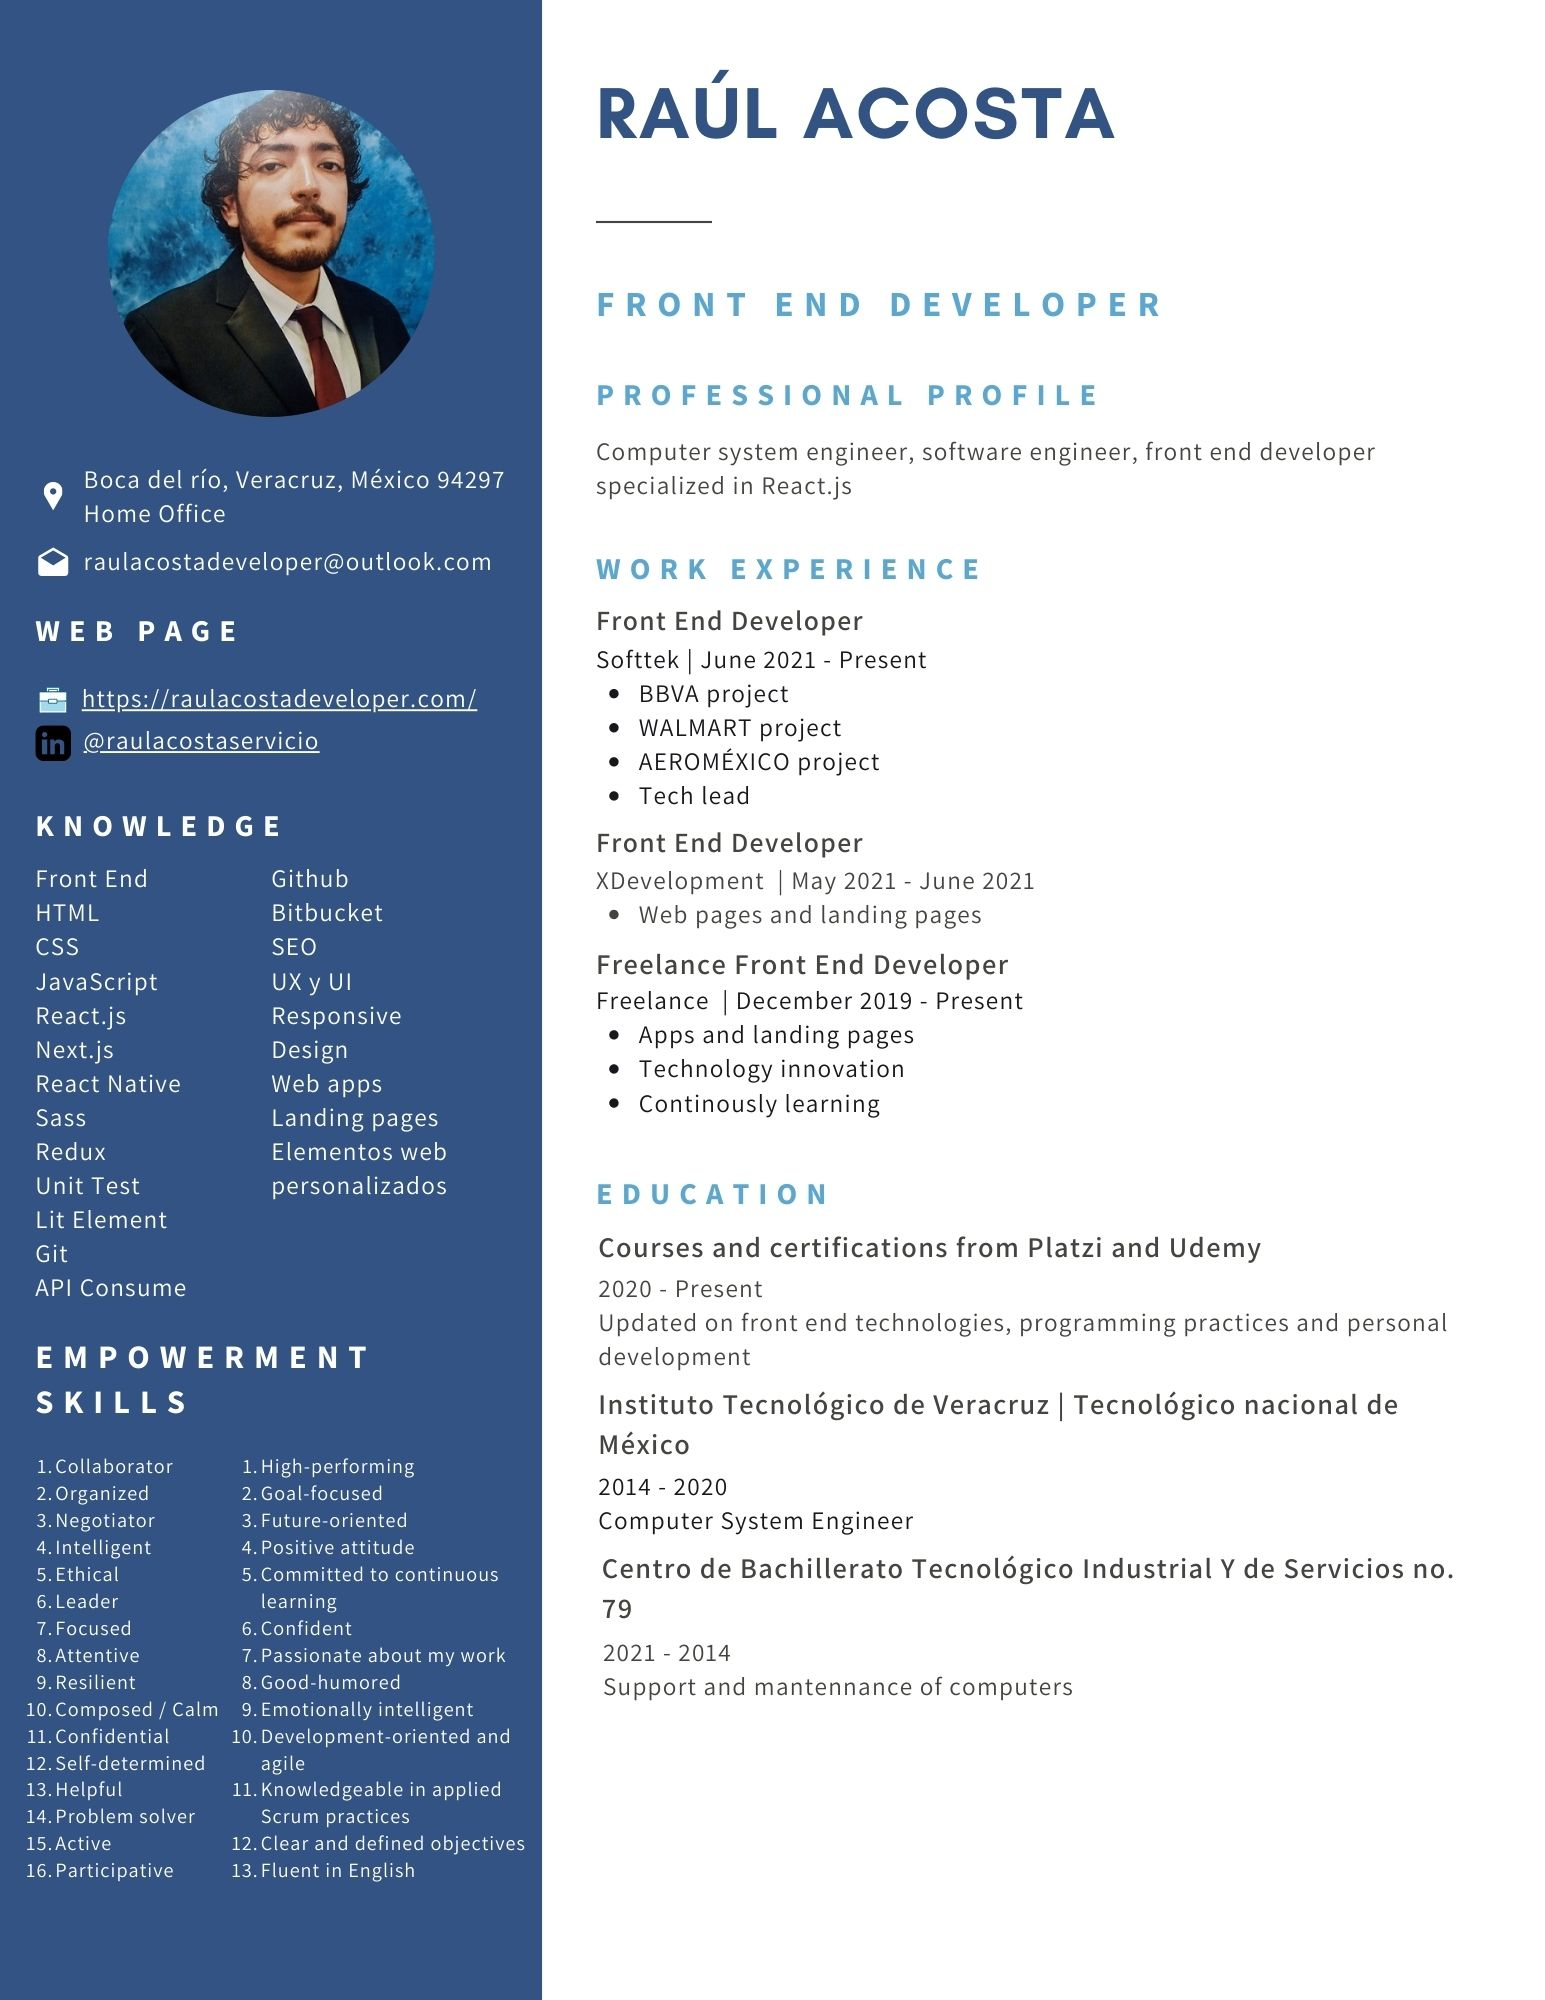
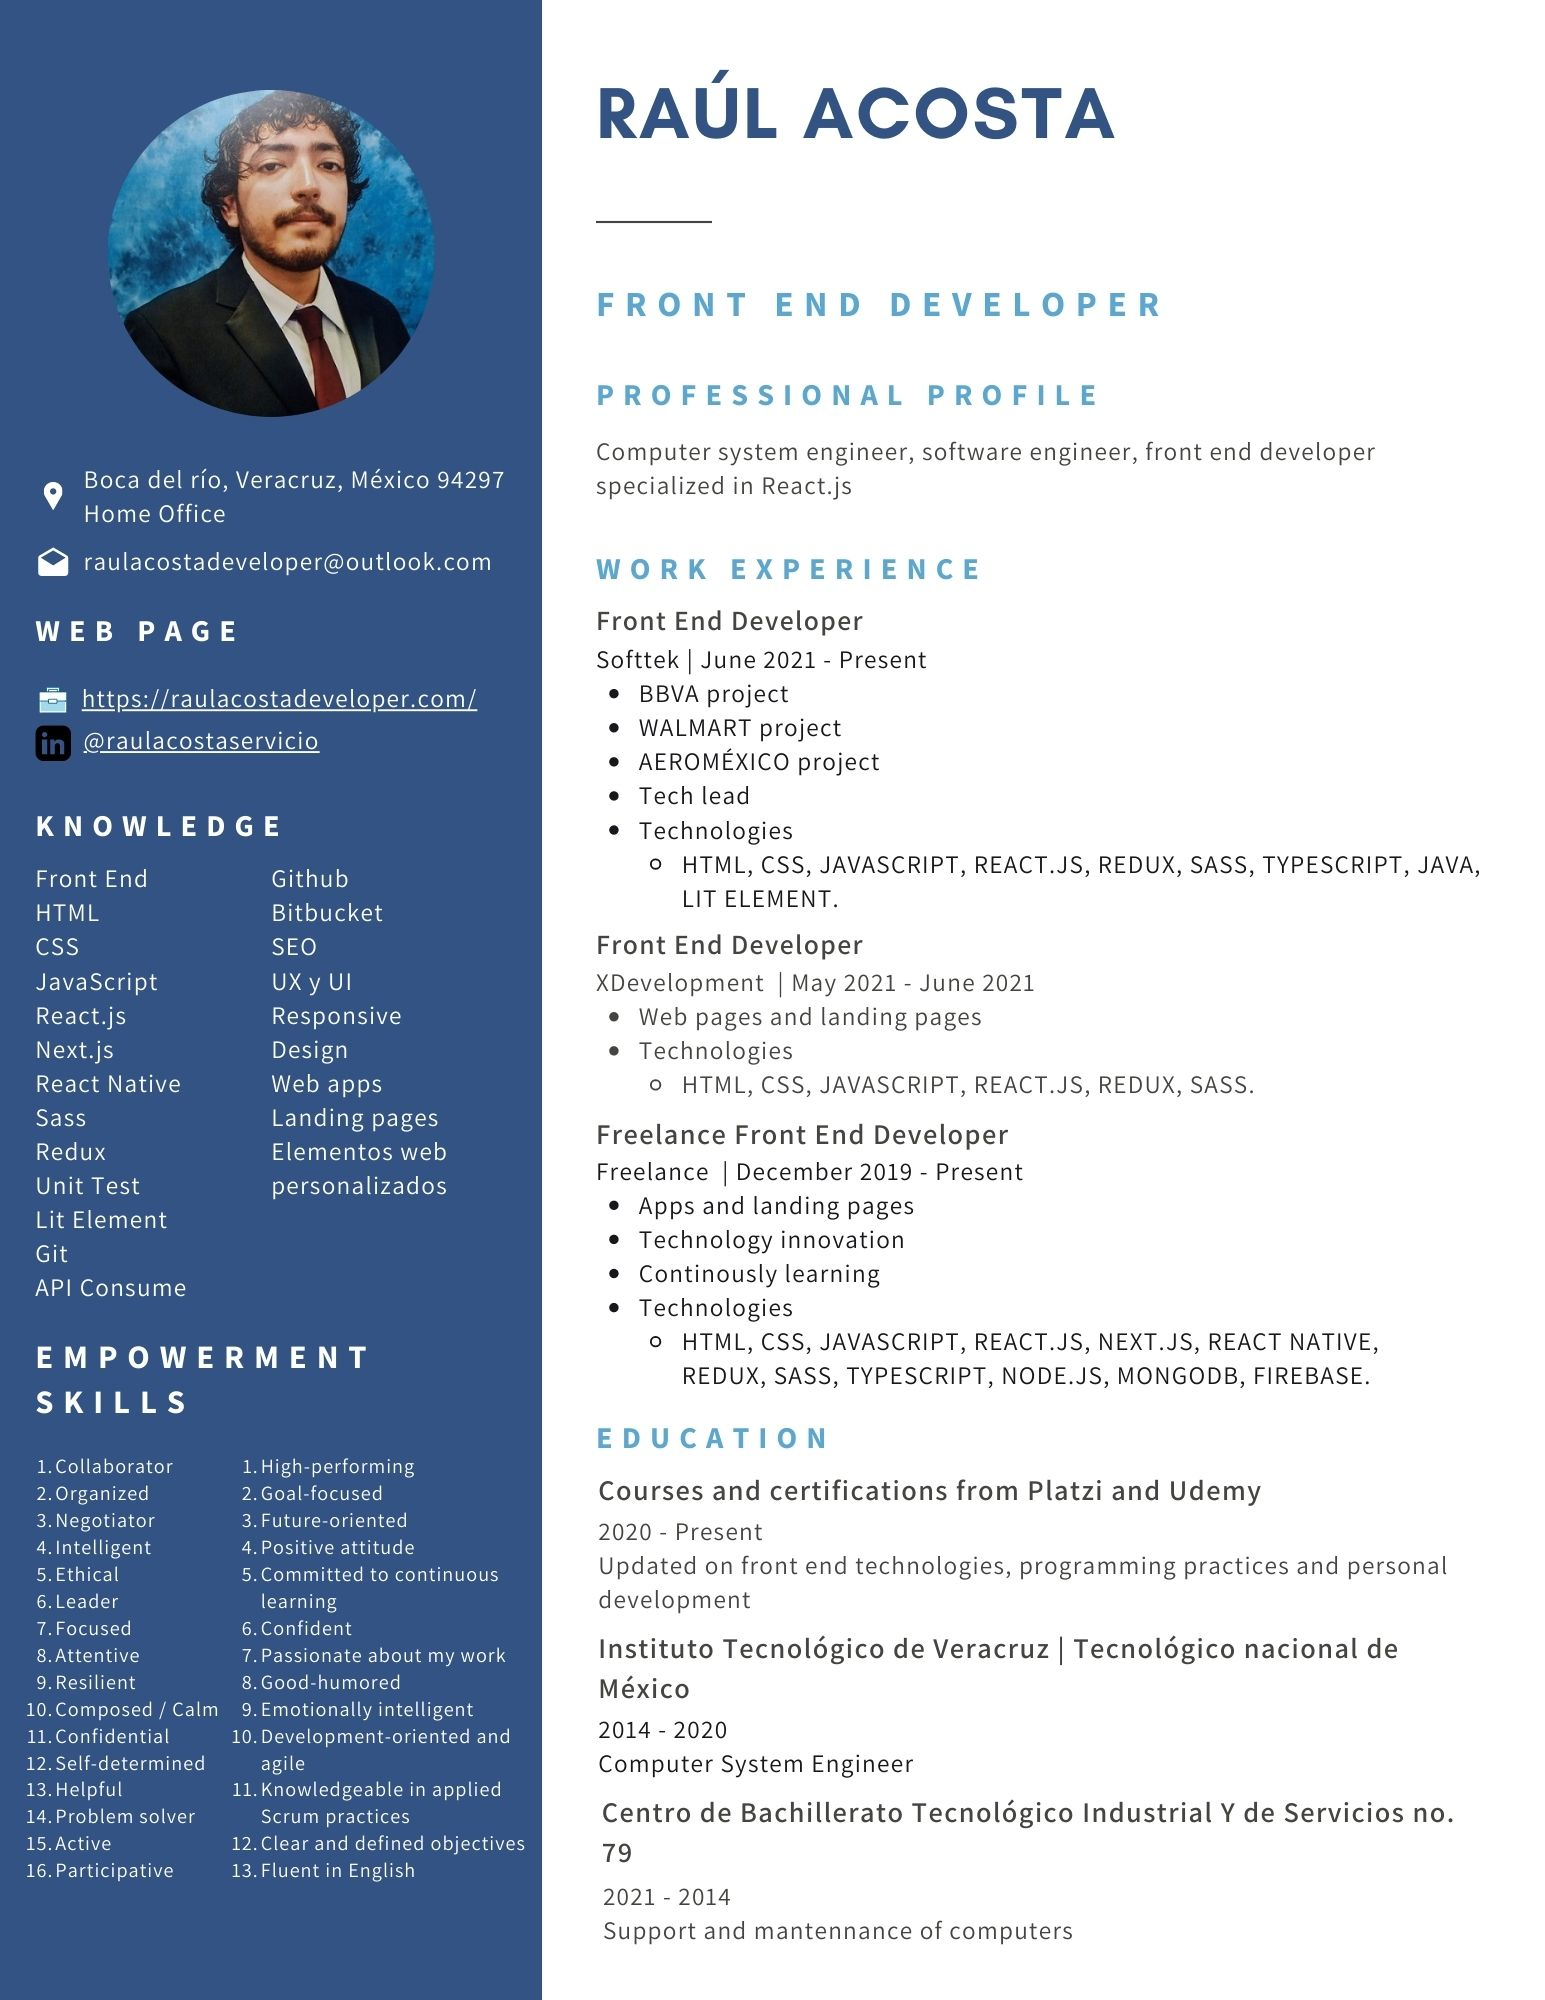
Ahora los currículum salen como imágenes, y actualicé algunas cosas del home

diff --git a/index.html b/index.html
@@ -52,6 +52,7 @@
     <link rel="stylesheet" href="./Css/Contacto.css">
     <link rel="stylesheet" href="./Css/Arrows.css">
     <link rel="stylesheet" href="./Css/Menu.css">
+    <link rel="stylesheet" href="./Css/Certificados.css">
 </head>
 <!-- Google tag (gtag.js) -->
 <script async src="https://www.googletagmanager.com/gtag/js?id=G-221GCEW8BT"></script>
@@ -181,12 +182,12 @@
                 <p>Ingresé a la carrera de <b>Ingeniería en Sistemas</b> en <b>2014</b>.</p>
                 <p>Desde el <b>2019</b> me dedico al <b>Desarrollo Web</b> de parte del <b>Front End</b>.</p>
                 <p>Tengo experiencia en lenguajes y frameworks como <b>Html, Css, JavaScript, React.js, Next.js y React Native</b>.</p>
-                <p>También tengo experiencia en herramientas como <b>Redux, Unit Test, Git, Sass, GSAP</b> y más.</p>
+                <p>También tengo experiencia en herramientas como <b>Redux, Unit Test, Git, Sass, GSAP, TypeScript</b> y más.</p>
                 <p>Cuento con conocimientos de marcos de desarrollo como <b>Scrum y Agile</b>.</p>
                 <p>He tomado cursos y mantengo presente la <b>Autodeterminación, Ética, Liderazgo, Negociación, y Agilidad</b> entre otras habilidades blandas.</p>
-                <p>Me puedo comunicar fluídamente en <b>Inglés</b>.</p>
+                <p>Cuento con un buen nivel de <b>Inglés</b>.</p>
                 <p>Soy una persna de <b>confianza</b>.</p>
-                <p>Y hago un honesto esfuerzo por ser el mejor, un ejemplo a seguir, ser eficiente y de alto desempeño, porque soy apasionado.</p>
+                <p>Y hago un honesto esfuerzo por ser el mejor, un ejemplo a seguir, ser eficiente y de alto desempeño.</p>
             </div>
         </article>
         <article id="currículum">
@@ -195,15 +196,15 @@
                 <img id="2img" src="./Imagenes/downarrowbold.png" alt="downarrowbold">
             </div>
             <div id="2" abierto="true">
-                <div class="ligaPrincipal">
-                    <h3>
-                        <a href="./Imagenes/CurriculumEs.jpg">Aquí está mi currículum</a>
-                    </h3>
-                </div>
-                <div class="ligaPrincipal">
-                    <h3>
-                        <a href="./Imagenes/CurriculumEn.jpg">Here is my english resume</a>
-                    </h3>
+                <div class="certificados">
+                    <a href="./Imagenes/CurriculumEs.jpg/">
+                        <img src="./Imagenes/CurriculumEs.jpg" alt="Mi currículum en español">
+                        <h5>Currículum español</h5>
+                    </a>
+                    <a href="./Imagenes/CurriculumEn.jpg">
+                        <img src="./Imagenes/CurriculumEn.jpg" alt="Mi currículum en inglés">
+                        <h5>English resume</h5>
+                    </a>
                 </div>
             </div>
         </article>
@@ -213,7 +214,7 @@
                 <img id="3img" src="./Imagenes/downarrowbold.png" alt="downarrowbold">
             </div>
             <div id="3" abierto="true">
-                <h3>Ingeniero de Software Front End</h3>
+                <h3>Desarrollador Front End</h3>
                 <h4><b>Softtek</b> | Junio 2021 - Presente</h4>
                 <ul>
                     <li>Participación en proyecto <b>BBVA</b></li>
@@ -226,12 +227,12 @@
                 <ul>
                     <li>Desarrollo de páginas web</li>
                 </ul>
-                <h3>Desarrollador Freelance Front End</h3>
+                <h3>Desarrollador Front End</h3>
                 <h4><b>Freelance</b> | Diciembre 2019 - Presente</h4>
                 <ul>
-                    <li>Páginas web y aplicaciones web</li>
-                    <li>Innovación en tecnología</li>
-                    <li>Aprendizaje contínuo</li>
+                    <li>Creación de páginas web y aplicaciones web</li>
+                    <li>Innovaciones en tecnologías y experimentos</li>
+                    <li>Aprendizaje contínuo, cursos, certificaciones, etc.</li>
                 </ul>
             </div>
         </article>
@@ -241,7 +242,7 @@
                 <img id="4img" src="./Imagenes/downarrowbold.png" alt="downarrowbold">
             </div>
             <div id="4" abierto="true">
-                <h2><a href="./diplomasYCertificados.html">Click aquí para ver mis diplomas y certificados</a></h2>
+                <h2><a href="./diplomasYCertificados.html">Ir a diplomas y certificados</a></h2>
                 <br>
             </div>
         </article>
@@ -251,7 +252,7 @@
                 <img id="5img" src="./Imagenes/downarrowbold.png" alt="downarrowbold">
             </div>
             <div id="5" abierto="true">
-                <h2><a href="./proyectosYEjemplos.html">Click aquí para ver mis proyectos y ejemplos (en producción)</a></h2>
+                <h2><a href="./proyectosYEjemplos.html">Ir a mis proyectos y ejemplos</a></h2>
                 <br>
             </div>
         </article>
